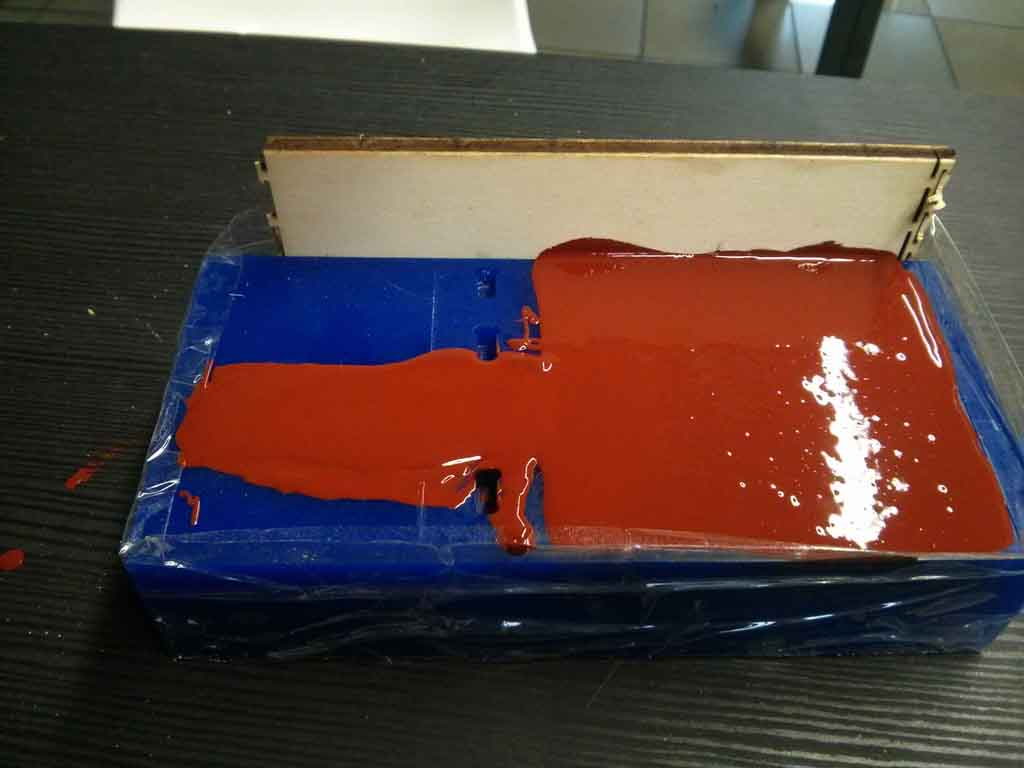
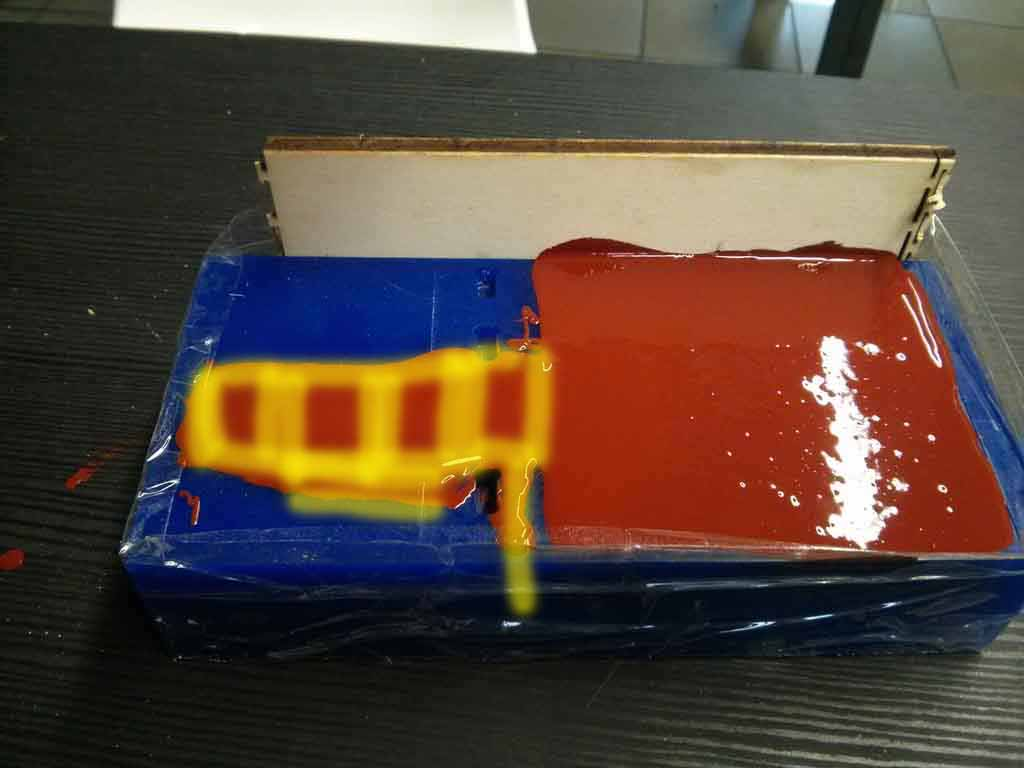
up4 week9

Changed region(s): [[0.1562, 0.4375, 0.5625, 0.8125]]

diff --git a/_site/class_assignments/week9/index.html b/_site/class_assignments/week9/index.html
@@ -150,7 +150,7 @@ Description: Awesome dude, awesome life
 
 <ul>
   <li><a href="http://www.machinablewax.com/product.php?product=30">Machinable wax</a> <a href="http://www.instructables.com/id/Machinable-Wax/">at home</a></li>
-  <li><a href="http://www.smooth-on.com/Silicone-Rubber-an/c2_1113_1135/index.html">Mold MAX - silicone rubber</a></li>
+  <li><a href="http://www.smooth-on.com/Silicone-Rubber-an/c2_1113_1135/index.html">Mold MAX 60 - silicone rubber</a></li>
   <li><a href="http://www.smooth-on.com/Urethane-Plastic-a/c5_1120_1206/index.html">Smooth-Cast® 325</a></li>
   <li><a href="http://www.rolanddg.com/product/3d/3d/srm-20/index.html">Roland srm-20</a></li>
 </ul>
@@ -263,20 +263,30 @@ fortunately milling was over ! otherwise I would have to repeat the finish proce
 
 <h1 id="molding">Molding</h1>
 
-<h4 id="mold-max---smoth-on">Mold MAX - Smoth-on</h4>
+<h4 id="mold-max-60---smoth-on">Mold MAX 60 - Smoth-on</h4>
 
 <hr />
 
+<p>Before start to mix and use the red silicon ( mold max ) I must scotch a wall on the missing side.</p>
+
 <p><img src="//localhost:4000/images/week/9/img/013.jpg" alt="mini" />
-<img src="//localhost:4000/images/week/9/img/014.jpg" alt="mini" />
-<img src="//localhost:4000/images/week/9/img/015.jpg" alt="015" />
-<img src="//localhost:4000/images/week/9/img/016.jpg" alt="016" /></p>
+<img src="//localhost:4000/images/week/9/img/014.jpg" alt="mini" /></p>
+
+<p>I mixed 100A parts (red silicon) with 3B parts (reagent), mix fast without creating bubbles,  and I poured inside …</p>
+
+<p><img src="//localhost:4000/images/week/9/img/015.jpg" alt="015" /></p>
+
+<p>During this process immediately I realized that I have inserted silicone excess (in yellow)</p>
+
+<p><img src="//localhost:4000/images/week/9/img/016.jpg" alt="016" /></p>
 
 <h2 id="final-result-1">Final result</h2>
 
 <p><img src="//localhost:4000/images/week/9/img/017.jpg" alt="017" />
 <img src="//localhost:4000/images/week/9/img/018.jpg" alt="018" />
-–
+–</p>
+
+<p>As described before, to perform perfectly the joint I need to cut the exeeded red silicon (on yellow).
 <img src="//localhost:4000/images/week/9/img/019.jpg" alt="019" /></p>
 
 <hr />
@@ -298,10 +308,6 @@ fortunately milling was over ! otherwise I would have to repeat the finish proce
 <p><img src="//localhost:4000/images/week/9/img/023.jpg" alt="023" />
   <img src="//localhost:4000/images/week/9/img/029.jpg" alt="029" />
 <img src="//localhost:4000/images/week/9/img/024.jpg" alt="024" /></p>
-
-<h3 id="error-">error !</h3>
-
-<h4 id="workflow">workflow</h4>
 
 <hr />
 

diff --git a/_posts/2015-04-06-week9.md b/_posts/2015-04-06-week9.md
@@ -20,7 +20,7 @@ imagefeature: molding_casting_.jpg
 #####Materials - Machine
 
 - [Machinable wax](http://www.machinablewax.com/product.php?product=30) [at home](http://www.instructables.com/id/Machinable-Wax/)
-- [Mold MAX - silicone rubber](http://www.smooth-on.com/Silicone-Rubber-an/c2_1113_1135/index.html)
+- [Mold MAX 60 - silicone rubber](http://www.smooth-on.com/Silicone-Rubber-an/c2_1113_1135/index.html)
 - [Smooth-Cast® 325](http://www.smooth-on.com/Urethane-Plastic-a/c5_1120_1206/index.html)
 - [Roland srm-20](http://www.rolanddg.com/product/3d/3d/srm-20/index.html)
 
@@ -134,13 +134,21 @@ looks parts circled green, are the same, one negative single circled (2mm square
 
 #Molding 
 
-####Mold MAX - Smoth-on
+####Mold MAX 60 - Smoth-on
 
 ****
 
+Before start to mix and use the red silicon ( mold max ) I must scotch a wall on the missing side.
+
 ![mini]({{ site.url }}/images/week/9/img/013.jpg)
 ![mini]({{ site.url }}/images/week/9/img/014.jpg)
+
+I mixed 100A parts (red silicon) with 3B parts (reagent), mix fast without creating bubbles,  and I poured inside ...
+
 ![015]({{ site.url }}/images/week/9/img/015.jpg)
+
+During this process immediately I realized that I have inserted silicone excess (in yellow)
+
 ![016]({{ site.url }}/images/week/9/img/016.jpg)
 
 ##Final result
@@ -148,6 +156,8 @@ looks parts circled green, are the same, one negative single circled (2mm square
 ![017]({{ site.url }}/images/week/9/img/017.jpg)
 ![018]({{ site.url }}/images/week/9/img/018.jpg)
 --
+
+As described before, to perform perfectly the joint I need to cut the exeeded red silicon (on yellow).
 ![019]({{ site.url }}/images/week/9/img/019.jpg)
  
 ****
@@ -172,15 +182,6 @@ looks parts circled green, are the same, one negative single circled (2mm square
 ![023]({{ site.url }}/images/week/9/img/023.jpg)
   ![029]({{ site.url }}/images/week/9/img/029.jpg)
 ![024]({{ site.url }}/images/week/9/img/024.jpg)
-
-### error !
-
-
-
-####workflow
-
-
-
 
 
 ****
